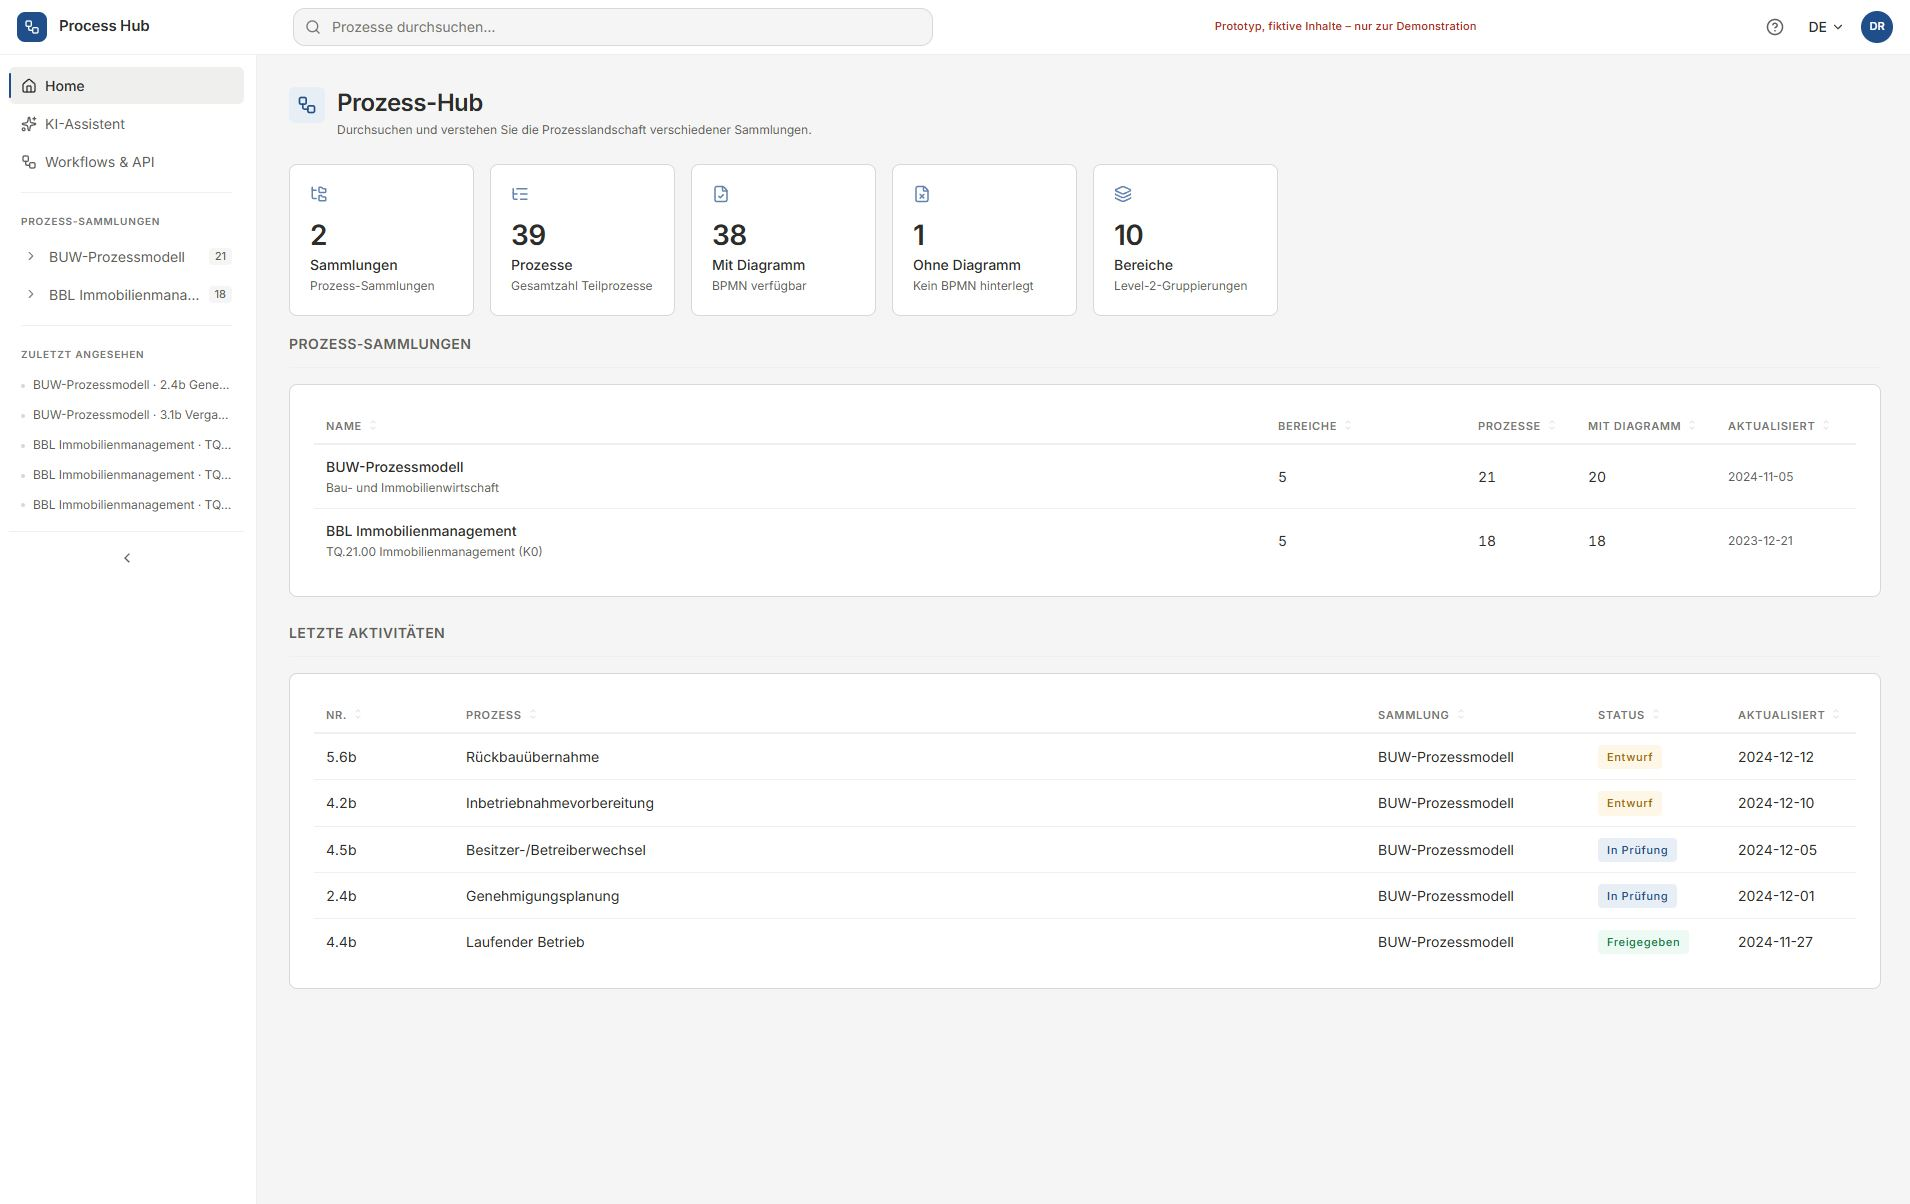
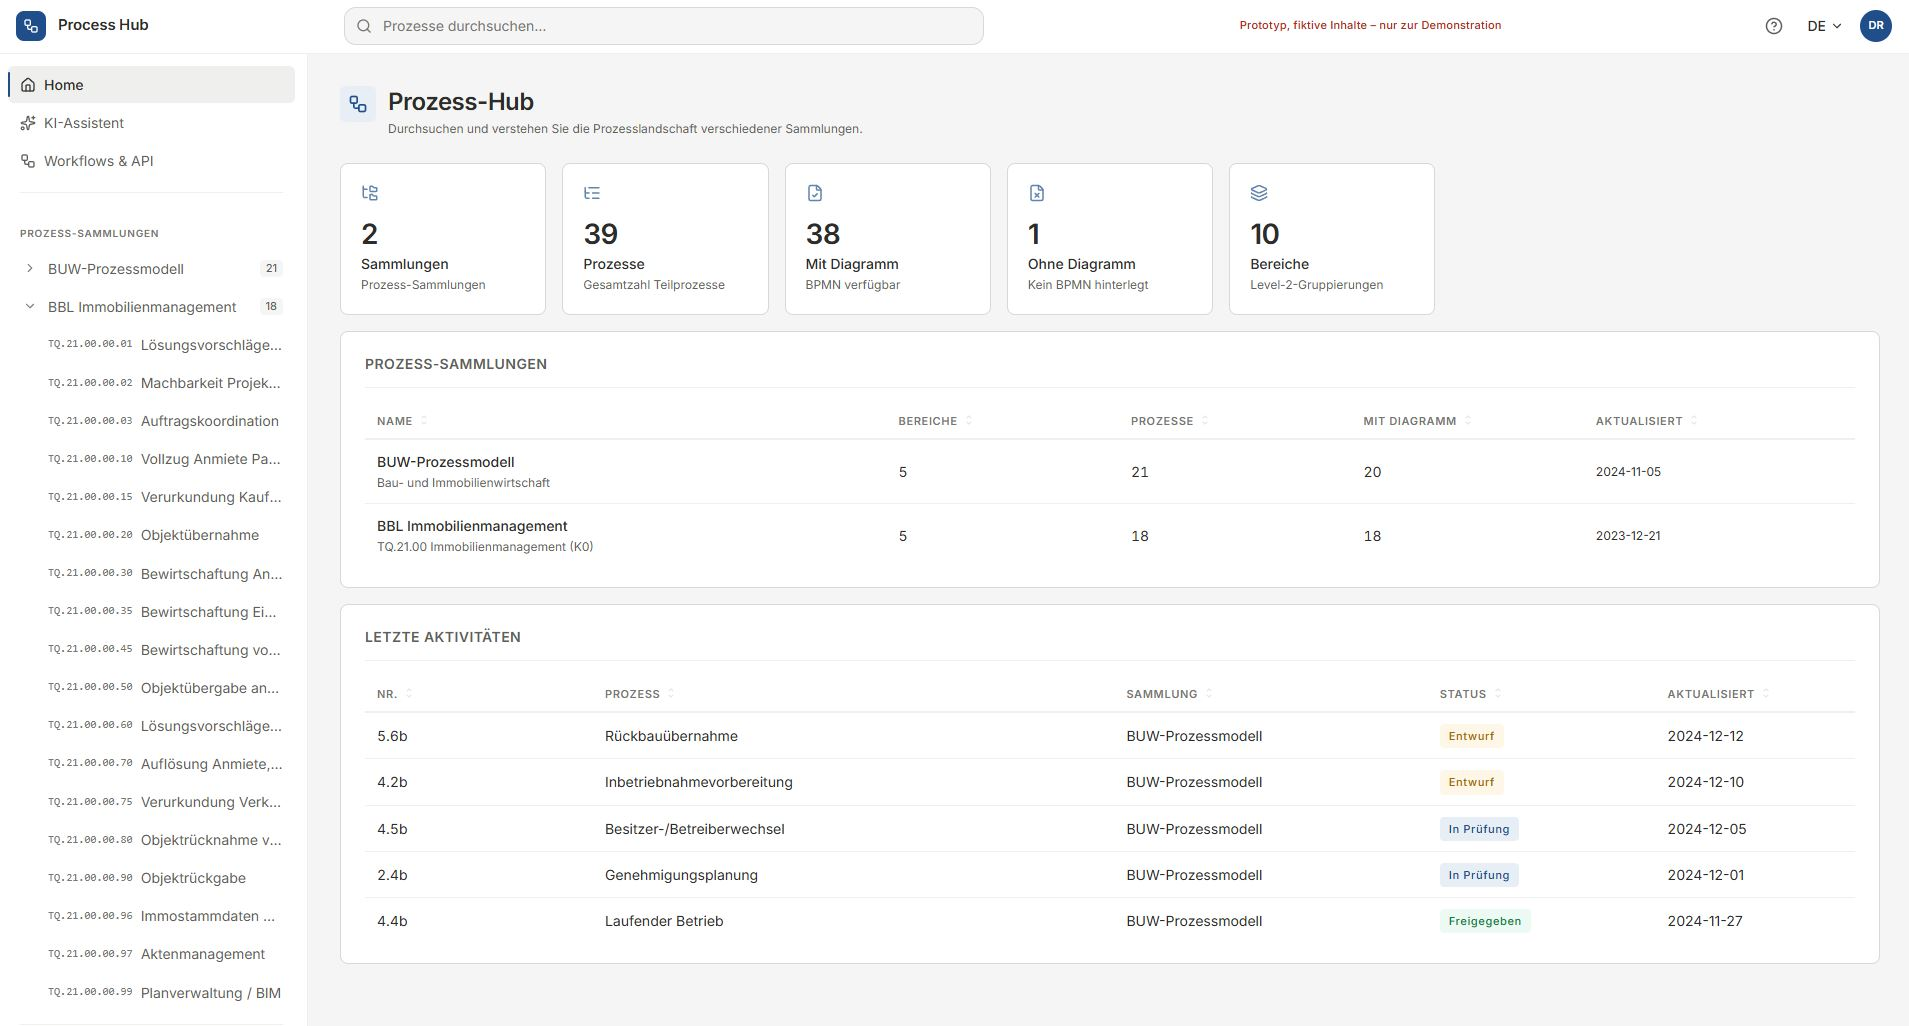
Update

diff --git a/js/app.js b/js/app.js
@@ -123,7 +123,7 @@ function showFatalError(err) {
     <div style="max-width: 480px; text-align: center; padding: 32px;">
       <h2 style="margin-bottom: 12px; color: var(--color-text-primary);">Daten konnten nicht geladen werden</h2>
       <p style="color: var(--color-text-secondary); margin-bottom: 8px;">${escapeHtml(err.message)}</p>
-      <p style="color: var(--color-text-secondary); font-size: var(--text-small);">
+      <p class="text-sub">
         Die Seite muss über einen HTTP-Server geöffnet werden
         (z.&nbsp;B. <code>python -m http.server</code>).
         <code>file://</code> blockiert <code>fetch</code>.
@@ -593,16 +593,16 @@ function renderHome() {
         `).join('')}
       </div>
 
-      <div class="section-label">Prozess-Sammlungen</div>
-      <div class="list-panel">
+      <section class="content-section">
+        <div class="section-label">Prozess-Sammlungen</div>
         <div class="data-table-wrap">
           <table class="data-table">
             <colgroup>
-              <col>
-              <col style="width: 200px;">
-              <col style="width: 110px;">
-              <col style="width: 140px;">
-              <col style="width: 140px;">
+              <col style="width: var(--col-primary);">
+              <col style="width: var(--col-count);">
+              <col style="width: var(--col-count);">
+              <col style="width: var(--col-count);">
+              <col style="width: var(--col-date);">
             </colgroup>
             <thead>
               <tr>
@@ -618,10 +618,12 @@ function renderHome() {
             </tbody>
           </table>
         </div>
-      </div>
+      </section>
 
-      <div class="section-label" style="margin-top: var(--space-6);">Letzte Aktivitäten</div>
-      ${renderRecentActivityTable()}
+      <section class="content-section">
+        <div class="section-label">Letzte Aktivitäten</div>
+        ${renderRecentActivityTable()}
+      </section>
     </div>
   `;
 }
@@ -636,45 +638,43 @@ function renderRecentActivityTable() {
     });
   });
   if (all.length === 0) {
-    return `<p style="color: var(--color-text-secondary);">Keine Aktivitäten erfasst.</p>`;
+    return `<p class="text-secondary">Keine Aktivitäten erfasst.</p>`;
   }
   all.sort((x, y) => (y.g.updatedAt || '').localeCompare(x.g.updatedAt || ''));
   const top = all.slice(0, 5);
   return `
-    <div class="list-panel">
-      <div class="data-table-wrap">
-        <table class="data-table">
-          <colgroup>
-            <col style="width: 140px;">
-            <col>
-            <col style="width: 220px;">
-            <col style="width: 140px;">
-            <col style="width: 130px;">
-          </colgroup>
-          <thead>
-            <tr>
-              <th scope="col">Nr.</th>
-              <th scope="col">Prozess</th>
-              <th scope="col">Sammlung</th>
-              <th scope="col">Status</th>
-              <th scope="col">Aktualisiert</th>
-            </tr>
-          </thead>
-          <tbody>
-            ${top.map(({ c, a, g }) => {
-              const href = `#/c/${encodeURIComponent(c.id)}/process/${encodeURIComponent(g.id)}`;
-              return `
-                <tr class="clickable-row" data-href="${escapeAttr(href)}">
-                  <td style="font-variant-numeric: tabular-nums;">${escapeHtml(g.id)}</td>
-                  <td>${escapeHtml(g.name)}</td>
-                  <td>${escapeHtml(c.name)}</td>
-                  <td>${renderStatusBadge(g.status)}</td>
-                  <td>${escapeHtml(g.updatedAt)}</td>
-                </tr>`;
-            }).join('')}
-          </tbody>
-        </table>
-      </div>
+    <div class="data-table-wrap">
+      <table class="data-table">
+        <colgroup>
+          <col style="width: var(--col-id);">
+          <col style="width: var(--col-primary);">
+          <col style="width: var(--col-area);">
+          <col style="width: var(--col-status);">
+          <col style="width: var(--col-date);">
+        </colgroup>
+        <thead>
+          <tr>
+            <th scope="col">Nr.</th>
+            <th scope="col">Prozess</th>
+            <th scope="col">Sammlung</th>
+            <th scope="col">Status</th>
+            <th scope="col">Aktualisiert</th>
+          </tr>
+        </thead>
+        <tbody>
+          ${top.map(({ c, a, g }) => {
+            const href = `#/c/${encodeURIComponent(c.id)}/process/${encodeURIComponent(g.id)}`;
+            return `
+              <tr class="clickable-row" data-href="${escapeAttr(href)}">
+                <td class="tabular-nums">${escapeHtml(g.id)}</td>
+                <td>${escapeHtml(g.name)}</td>
+                <td>${escapeHtml(c.name)}</td>
+                <td>${renderStatusBadge(g.status)}</td>
+                <td>${escapeHtml(g.updatedAt)}</td>
+              </tr>`;
+          }).join('')}
+        </tbody>
+      </table>
     </div>
   `;
 }
@@ -687,12 +687,12 @@ function renderCollectionRow(c) {
     <tr class="clickable-row" data-href="${escapeAttr(href)}">
       <td>
         <div style="font-weight:500;">${escapeHtml(c.name)}</div>
-        ${c.subtitle ? `<div style="font-size: var(--text-small); color: var(--color-text-secondary);">${escapeHtml(c.subtitle)}</div>` : ''}
+        ${c.subtitle ? `<div class="text-sub">${escapeHtml(c.subtitle)}</div>` : ''}
       </td>
-      <td style="font-variant-numeric: tabular-nums;">${c.landscape.areas.length}</td>
-      <td style="font-variant-numeric: tabular-nums;">${count}</td>
-      <td style="font-variant-numeric: tabular-nums;">${bpmn}</td>
-      <td style="color: var(--color-text-secondary); font-size: var(--text-small);">${escapeHtml(c.updatedAt || '—')}</td>
+      <td class="tabular-nums">${c.landscape.areas.length}</td>
+      <td class="tabular-nums">${count}</td>
+      <td class="tabular-nums">${bpmn}</td>
+      <td class="text-sub">${escapeHtml(c.updatedAt || '—')}</td>
     </tr>
   `;
 }
@@ -766,14 +766,14 @@ function renderCollectionMetadataView(c) {
     ? (c.ownerUrl
         ? `<a href="${escapeAttr(c.ownerUrl)}" target="_blank" rel="noopener">${escapeHtml(c.owner)}</a>`
         : escapeHtml(c.owner))
-    : '<span style="color: var(--color-text-placeholder);">—</span>';
+    : '<span class="text-placeholder">—</span>';
 
   return `
     <section class="content-section">
       <div class="section-label">Beschreibung</div>
       ${c.description
         ? `<p style="margin:0; max-width: var(--prose-max-width); line-height:1.6;">${escapeHtml(c.description)}</p>`
-        : `<p style="margin:0; color: var(--color-text-placeholder);">Keine Beschreibung hinterlegt.</p>`}
+        : `<p class="text-placeholder" style="margin:0;">Keine Beschreibung hinterlegt.</p>`}
     </section>
 
     <section class="content-section">
@@ -949,11 +949,11 @@ function renderProcessTable(c, rows) {
     <div class="data-table-wrap">
       <table class="data-table">
         <colgroup>
-          <col style="width: 170px;">
-          <col>
-          <col style="width: 260px;">
-          <col style="width: 260px;">
-          <col style="width: 180px;">
+          <col style="width: var(--col-id);">
+          <col style="width: var(--col-primary);">
+          <col style="width: var(--col-area);">
+          <col style="width: var(--col-person);">
+          <col style="width: var(--col-status);">
         </colgroup>
         <thead>
           <tr>
@@ -978,7 +978,7 @@ function renderProcessRow(c, a, g) {
   const filterActive = state.filters[c.id]?.phases.has(a.id);
   return `
     <tr class="clickable-row" data-href="${escapeAttr(href)}">
-      <td style="font-variant-numeric: tabular-nums;">${escapeHtml(g.id)}</td>
+      <td class="tabular-nums">${escapeHtml(g.id)}</td>
       <td>${escapeHtml(g.name)}</td>
       <td>
         <button type="button" class="badge badge-domain badge-filterable"
@@ -986,13 +986,13 @@ function renderProcessRow(c, a, g) {
                 ${filterActive ? 'aria-pressed="true"' : ''}
                 title="Nach Bereich filtern">${escapeHtml(a.name)}</button>
       </td>
-      <td>${owner ? escapeHtml(owner.name) : '<span style="color: var(--color-text-placeholder);">—</span>'}</td>
+      <td>${owner ? escapeHtml(owner.name) : '<span class="text-placeholder">—</span>'}</td>
       <td>${renderStatusBadge(g.status)}</td>
     </tr>`;
 }
 
 function renderStatusBadge(status) {
-  if (!status) return '<span style="color: var(--color-text-placeholder);">—</span>';
+  if (!status) return '<span class="text-placeholder">—</span>';
   const s = STATUS_LABELS[status];
   if (!s) return escapeHtml(status);
   return `<span class="badge ${s.badge}">${escapeHtml(s.label)}</span>`;
@@ -1018,7 +1018,10 @@ function renderGroupingDropdown(collId) {
 
 function groupRows(rows, grouping, c) {
   if (grouping === 'none') {
-    return [{ label: null, rows }];
+    // Still emit a single group so the header-with-count renders — matches
+    // the data-catalog pattern of always showing "<label> (N)" above the
+    // table, even when there's no real grouping.
+    return [{ label: 'Prozesse', rows }];
   }
 
   const keyFn = {
@@ -1481,8 +1484,8 @@ function renderProcessDiagramPane(group) {
 }
 
 function renderProcessMetadataPane(c, area, group) {
-  const dash = '<span style="color: var(--color-text-placeholder);">—</span>';
-  const emptyPara = msg => `<p style="margin:0; color: var(--color-text-placeholder);">${escapeHtml(msg)}</p>`;
+  const dash = '<span class="text-placeholder">—</span>';
+  const emptyPara = msg => `<p class="text-placeholder" style="margin:0;">${escapeHtml(msg)}</p>`;
 
   const responsibleList = (group.responsible || []).map(renderPersonInline).join('<br>') || dash;
   const tagsHtml = (group.tags || []).length
@@ -1589,7 +1592,7 @@ function renderProcessMetadataPane(c, area, group) {
 }
 
 function renderLinkedProcesses(c, ids) {
-  if (!ids || ids.length === 0) return '<span style="color: var(--color-text-placeholder);">—</span>';
+  if (!ids || ids.length === 0) return '<span class="text-placeholder">—</span>';
   return ids.map(pid => {
     const hit = findGroupInCollection(c, pid);
     if (hit) {
@@ -1614,10 +1617,10 @@ function renderProcessStepsPane() {
 }
 
 function renderPersonInline(id) {
-  if (!id) return '<span style="color: var(--color-text-placeholder);">—</span>';
+  if (!id) return '<span class="text-placeholder">—</span>';
   const p = resolvePerson(id);
   if (!p) return escapeHtml(id);
-  return `<div>${escapeHtml(p.name)}</div>${p.org ? `<div style="font-size: var(--text-small); color: var(--color-text-secondary);">${escapeHtml(p.org)}</div>` : ''}`;
+  return `<div>${escapeHtml(p.name)}</div>${p.org ? `<div class="text-sub">${escapeHtml(p.org)}</div>` : ''}`;
 }
 
 async function loadProcessSteps(group) {
@@ -1710,10 +1713,10 @@ function renderStepsTable(steps) {
     <div class="data-table-wrap">
       <table class="data-table">
         <colgroup>
-          <col style="width: 56px;">
-          <col>
-          <col style="width: 180px;">
-          <col style="width: 220px;">
+          <col style="width: 60px;">
+          <col style="width: var(--col-primary);">
+          <col style="width: var(--col-area);">
+          <col style="width: var(--col-person);">
         </colgroup>
         <thead>
           <tr>
@@ -1727,9 +1730,9 @@ function renderStepsTable(steps) {
           ${steps.map((s, i) => `
             <tr>
               <td style="font-variant-numeric: tabular-nums; color: var(--color-text-secondary);">${i + 1}</td>
-              <td>${s.name ? escapeHtml(s.name) : '<span style="color: var(--color-text-placeholder);">(ohne Namen)</span>'}</td>
+              <td>${s.name ? escapeHtml(s.name) : '<span class="text-placeholder">(ohne Namen)</span>'}</td>
               <td>${escapeHtml(s.typeLabel)}</td>
-              <td>${s.lane ? escapeHtml(s.lane) : '<span style="color: var(--color-text-placeholder);">—</span>'}</td>
+              <td>${s.lane ? escapeHtml(s.lane) : '<span class="text-placeholder">—</span>'}</td>
             </tr>
           `).join('')}
         </tbody>
@@ -1861,10 +1864,10 @@ function renderWorkflowsView() {
       <div class="data-table-wrap">
         <table class="data-table">
           <colgroup>
+            <col style="width: var(--col-primary);">
+            <col style="width: var(--col-count);">
+            <col style="width: var(--col-count);">
             <col>
-            <col style="width: 110px;">
-            <col style="width: 140px;">
-            <col style="width: 420px;">
           </colgroup>
           <thead>
             <tr>
@@ -1885,8 +1888,8 @@ function renderWorkflowsView() {
                     <a href="#/c/${encodeURIComponent(c.id)}">${escapeHtml(c.name)}</a>
                     ${c.subtitle ? `<div>${escapeHtml(c.subtitle)}</div>` : ''}
                   </td>
-                  <td style="font-variant-numeric: tabular-nums;">${total}</td>
-                  <td style="font-variant-numeric: tabular-nums;">${withBpmn}</td>
+                  <td class="tabular-nums">${total}</td>
+                  <td class="tabular-nums">${withBpmn}</td>
                   <td>
                     <div style="display:flex; flex-wrap: wrap; gap: var(--space-2);">
                       <button class="tool-btn" type="button" data-export-coll="${escapeAttr(c.id)}:excel">
@@ -2047,7 +2050,7 @@ function renderSearchResults(q) {
           <div class="title-block-subtitle">Sammlungen und Prozesse durchsuchen.</div>
         </div>
       </div>
-      <p style="color: var(--color-text-secondary);">Geben Sie oben einen Suchbegriff ein.</p>
+      <p class="text-secondary">Geben Sie oben einen Suchbegriff ein.</p>
     </div>`;
   }
 
@@ -2060,7 +2063,7 @@ function renderSearchResults(q) {
     body = `<div class="list-panel" style="text-align:center; padding: var(--space-8);">
       <i data-lucide="search-x" style="width:40px;height:40px; color: var(--color-text-placeholder);"></i>
       <h3 style="margin-top: var(--space-3);">Keine Treffer</h3>
-      <p style="color: var(--color-text-secondary);">Keine Sammlungen oder Prozesse passen zu „${escapeHtml(trimmed)}".</p>
+      <p class="text-secondary">Keine Sammlungen oder Prozesse passen zu „${escapeHtml(trimmed)}".</p>
     </div>`;
   } else {
     body = '<div class="list-panel">';
@@ -2109,7 +2112,7 @@ function renderRecents() {
     return `<div class="content-wrapper">
       ${renderBreadcrumb([{ label: 'Home', hash: '#/' }, { label: 'Zuletzt angesehen' }])}
       <h1 class="title-block-name" style="margin-bottom: var(--space-4);">Zuletzt angesehen</h1>
-      <p style="color: var(--color-text-secondary);">Noch keine Prozesse geöffnet.</p>
+      <p class="text-secondary">Noch keine Prozesse geöffnet.</p>
     </div>`;
   }
   return `<div class="content-wrapper">

diff --git a/css/tokens.css b/css/tokens.css
@@ -102,9 +102,22 @@
   --transition-hover: box-shadow 180ms ease, border-color 180ms ease, transform 180ms ease;
 
   /* Layout */
-  --sidebar-width: 260px;
+  --sidebar-width: 300px;
   --header-height: 56px;
   --content-max-width: 960px;
   --content-padding: 32px;
   --prose-max-width: 720px;
+
+  /* Data-table column widths — shared across every .data-table in the app
+     so the same concept (Nr. / Status / Bereich / …) is the same width
+     everywhere. Mix fixed pixels (predictable content) with a single
+     percentage for the primary text column so it scales with the viewport
+     instead of eating 100% of remaining space. */
+  --col-id:         160px;    /* "TQ.21.00.00.15", "2.3b" */
+  --col-count:      120px;    /* Small numeric counts (Bereiche, Prozesse, …) */
+  --col-status:     160px;    /* Status badges ("Freigegeben", "In Prüfung") */
+  --col-date:       140px;    /* ISO dates (YYYY-MM-DD) */
+  --col-area:       220px;    /* Bereich badge column */
+  --col-person:     220px;    /* Owner / Expert name + org */
+  --col-primary:    35%;      /* Primary name/title column (responsive) */
 }

diff --git a/css/styles.css b/css/styles.css
@@ -719,6 +719,13 @@ body.sidebar-collapsed .nav-item-icon-compact { display: inline-flex; }
   clip: rect(0, 0, 0, 0); white-space: nowrap; border: 0;
 }
 
+/* Text utility classes — extracted from repeated inline styles so app.js
+   stops carrying typography/colour knowledge in string templates. */
+.text-placeholder { color: var(--color-text-placeholder); }
+.text-secondary   { color: var(--color-text-secondary); }
+.text-sub         { font-size: var(--text-small); color: var(--color-text-secondary); }
+.tabular-nums     { font-variant-numeric: tabular-nums; }
+
 /* ============================================================
    Filter panel, pills, toggle
    ============================================================ */
